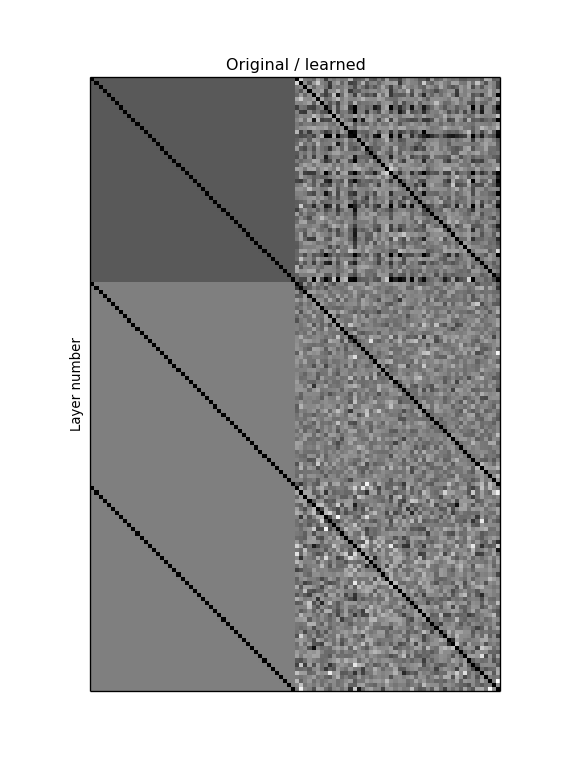
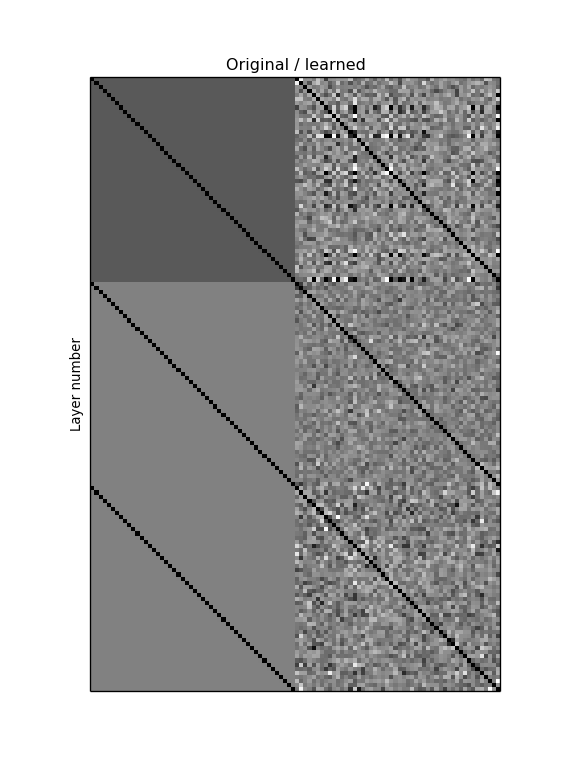
Corrected covariance image

Changed region(s): [[0.5, 0.0938, 0.875, 0.375]]

diff --git a/experiments/Feb_1_learning_alphabet_corr/2/experiment.py b/experiments/Feb_1_learning_alphabet_corr/2/experiment.py
@@ -124,7 +124,7 @@ def make_transform(N_scripts, corr):
     return transform_parser
 
 def T_to_covar(transform_dict):
-    return {i : np.dot(t.T, t) for i, t in transform_dict.iteritems()}
+    return {i : np.dot(t, t.T) for i, t in transform_dict.iteritems()}
 
 def plot():
     import matplotlib.pyplot as plt
